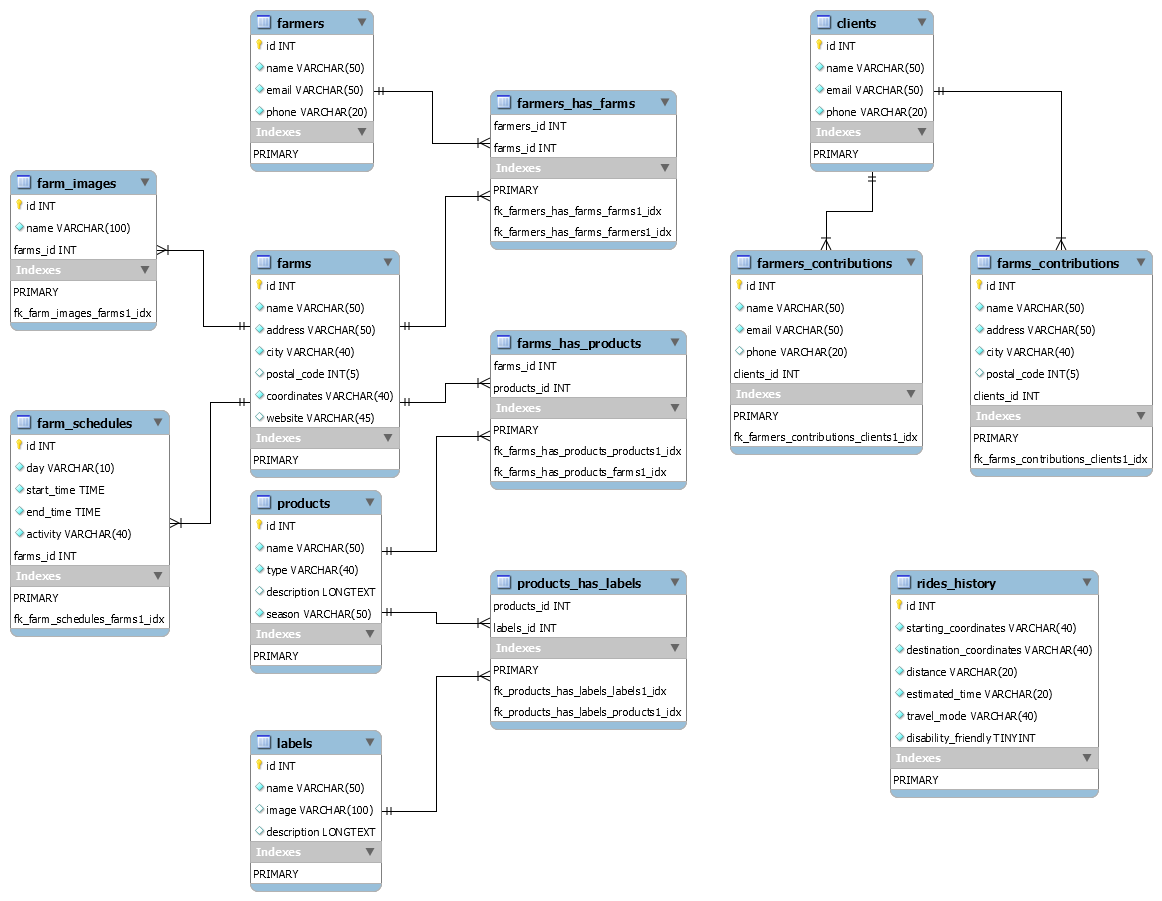
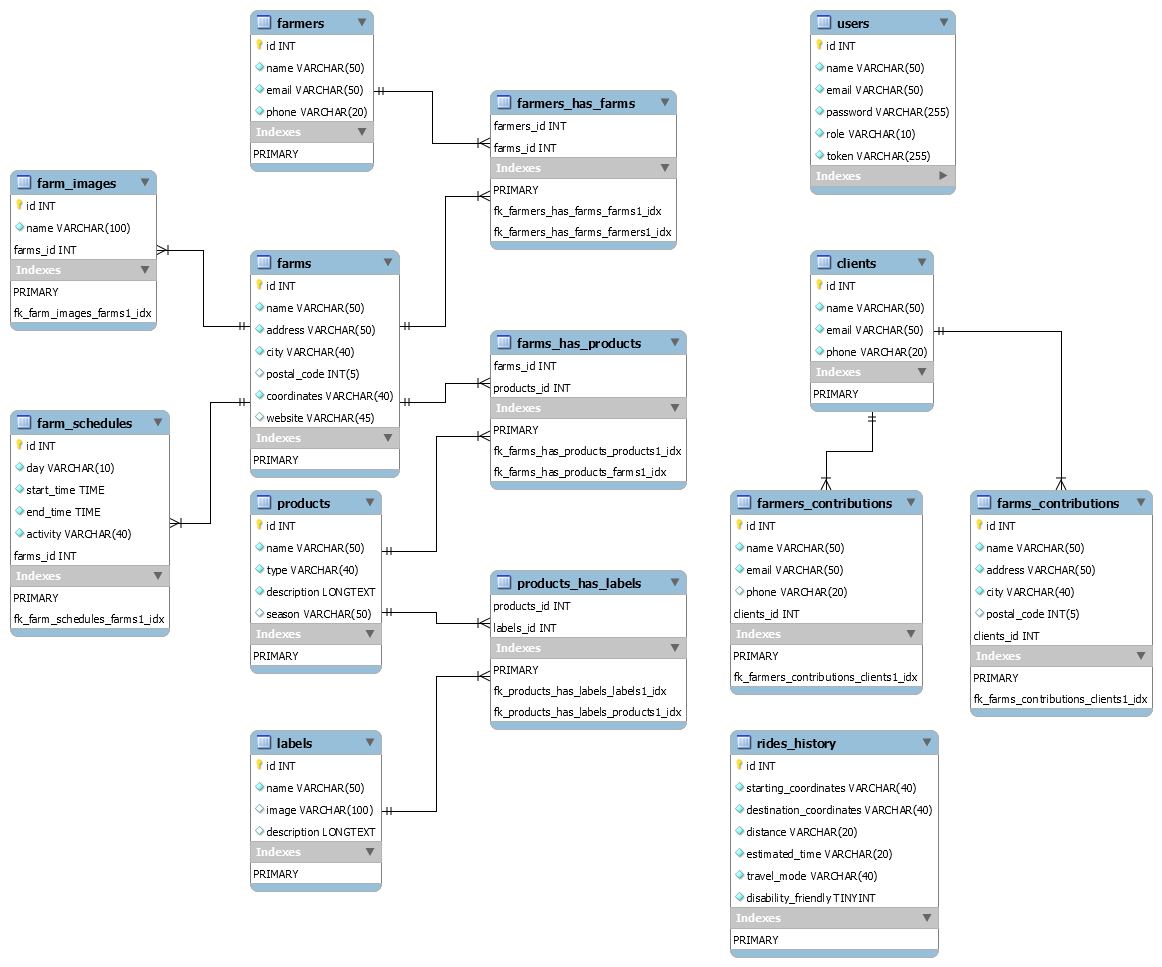
added user model

diff --git a/migrations/20201022113207-create-user.js b/migrations/20201022113207-create-user.js
@@ -1,0 +1,44 @@
+'use strict';
+module.exports = {
+  up: async (queryInterface, Sequelize) => {
+    await queryInterface.createTable('Users', {
+      id: {
+        allowNull: false,
+        autoIncrement: true,
+        primaryKey: true,
+        type: Sequelize.INTEGER
+      },
+      name: {
+        allowNull: false,
+        type: Sequelize.STRING
+      },
+      email: {
+        allowNull: false,
+        type: Sequelize.STRING
+      },
+      password: {
+        allowNull: false,
+        type: Sequelize.STRING
+      },
+      role: {
+        allowNull: false,
+        type: Sequelize.STRING
+      },
+      token: {
+        allowNull: false,
+        type: Sequelize.STRING
+      },
+      createdAt: {
+        allowNull: false,
+        type: Sequelize.DATE
+      },
+      updatedAt: {
+        allowNull: false,
+        type: Sequelize.DATE
+      }
+    });
+  },
+  down: async (queryInterface, Sequelize) => {
+    await queryInterface.dropTable('Users');
+  }
+};

diff --git a/models/user.js b/models/user.js
@@ -1,0 +1,27 @@
+'use strict';
+const {
+  Model
+} = require('sequelize');
+module.exports = (sequelize, DataTypes) => {
+  class User extends Model {
+    /**
+     * Helper method for defining associations.
+     * This method is not a part of Sequelize lifecycle.
+     * The `models/index` file will call this method automatically.
+     */
+    static associate(models) {
+      // define association here
+    }
+  };
+  User.init({
+    name: { type: DataTypes.STRING(50), allowNull: false },
+    email: { type: DataTypes.STRING(50), allowNull: false },
+    password: { type: DataTypes.STRING(255), allowNull: false },
+    role: { type: DataTypes.STRING(10), allowNull: false },
+    token: { type: DataTypes.STRING(255), allowNull: false, defaultValue: '{}' },
+  }, {
+    sequelize,
+    modelName: 'User',
+  });
+  return User;
+};
